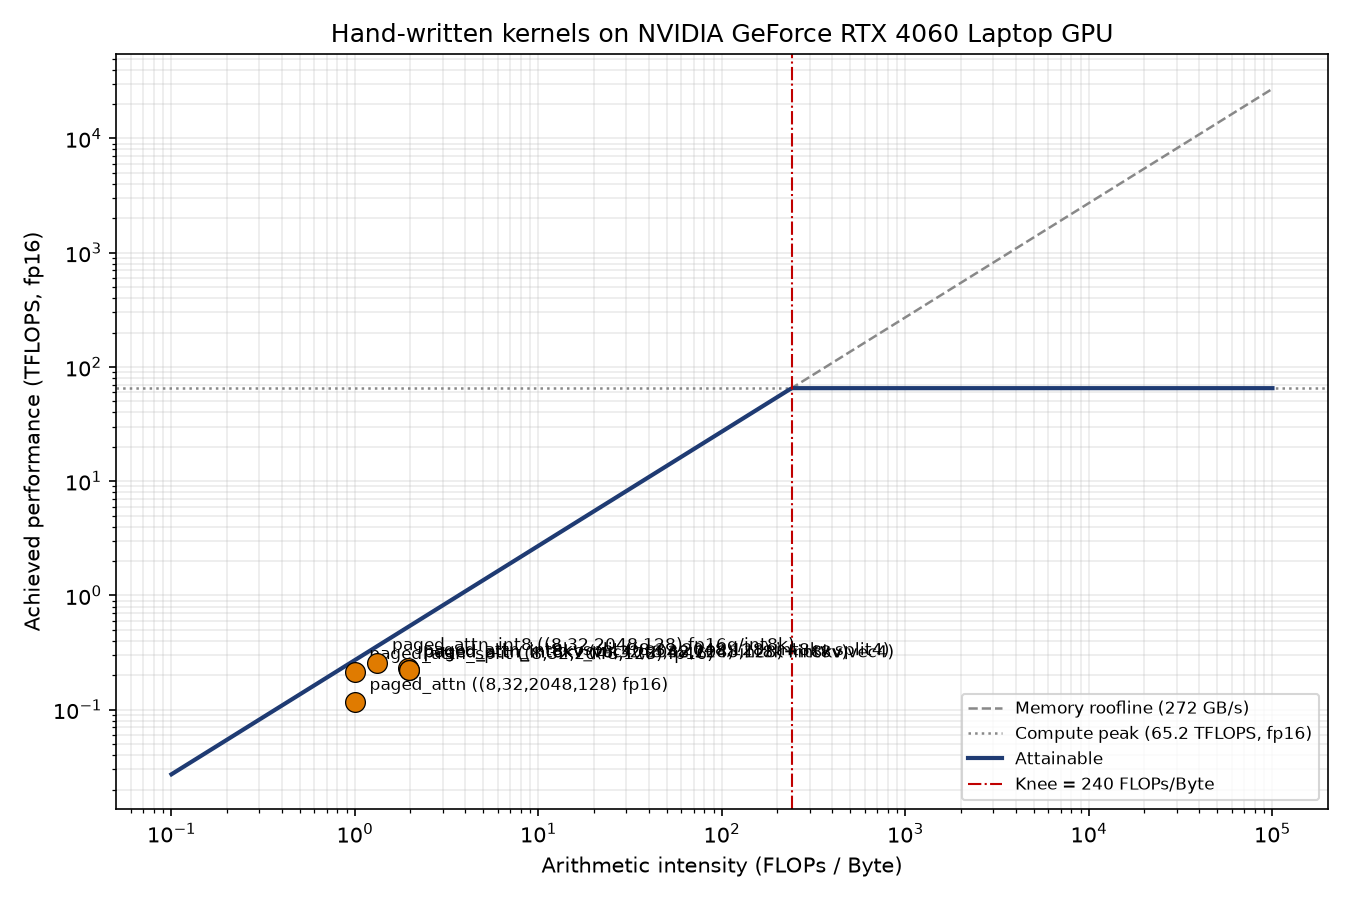
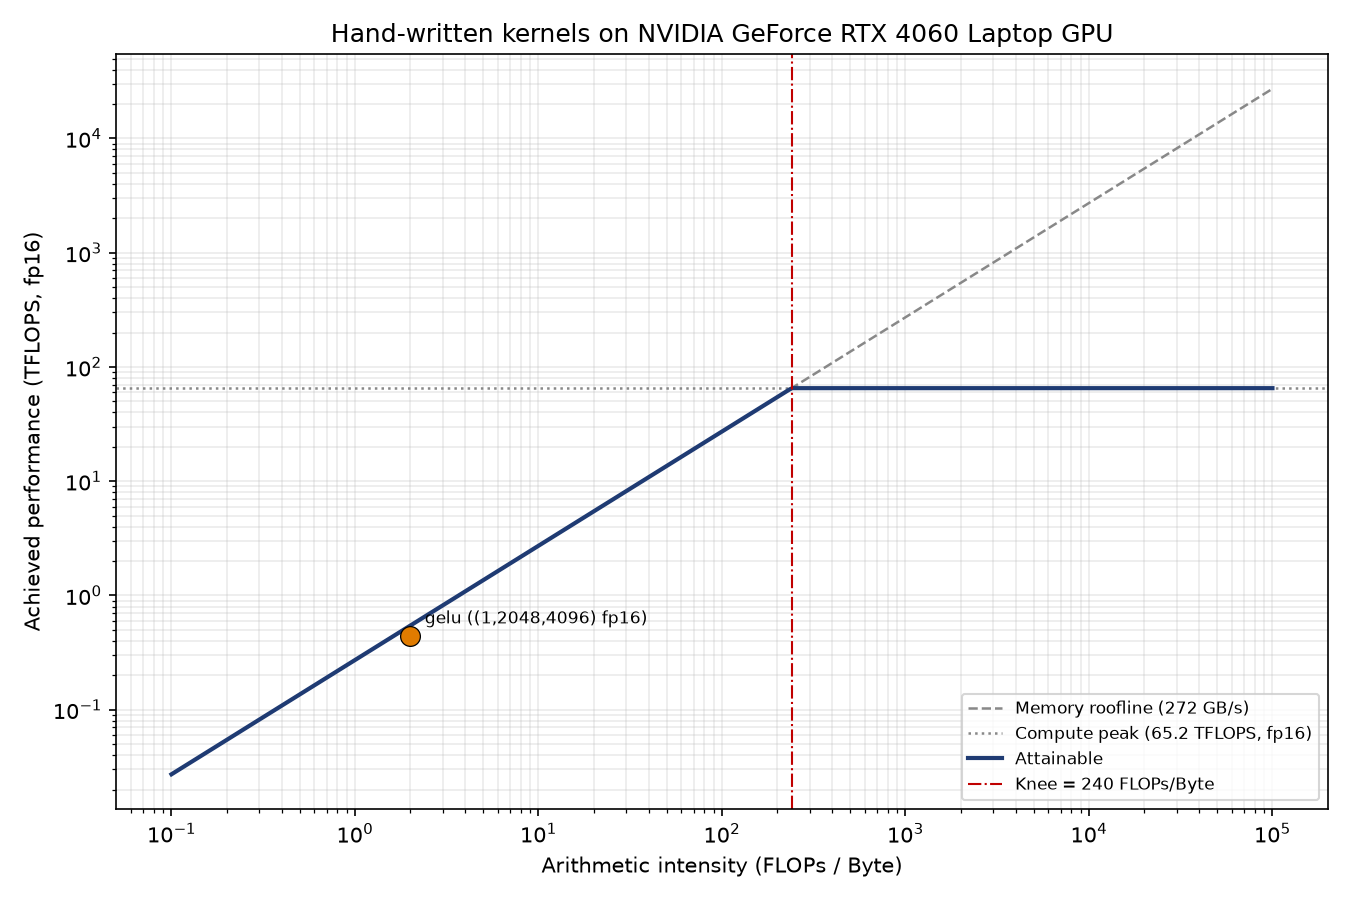
docs(gelu): block size sweep 结论（256/512 等价，128 掉 15%）

Changed region(s): [[0.2489, 0.6844, 0.6533, 0.8089]]

diff --git a/results/kernels.md b/results/kernels.md
@@ -1,6 +1,6 @@
 # 自写 CUDA Kernel 性能报告
 
-> 生成时间：2026-10-29 08:35:53
+> 生成时间：2026-10-29 08:43:48
 
 ## 环境
 
@@ -17,12 +17,7 @@
 
 | kernel | case | 状态 | 我的(ms) | PyTorch(ms) | 加速比 | 峰值显存(MB) | 带宽利用率(%) | Roofline | 备注 |
 |---|---|---|---|---|---|---|---|---|---|
-| paged_attn_int8kvsplit | (8,32,2048,128) int8kv split4 | PASS | 1.15 | 16.46 | 14.31 | 138.9 | 43.96 | memory-bound |  |
-| paged_attn | (8,32,2048,128) fp16 | PASS | 2.318 | 9.333 | 4.026 | 264.4 | 42.59 | memory-bound |  |
-| paged_attn_split | (8,32,2048,128) fp16 | PASS | 1.244 | 8.931 | 7.179 | 264.9 | 79.67 | memory-bound |  |
-| paged_attn_int8 | (8,32,2048,128) fp16q/int8k | PASS | 1.039 | 12.59 | 12.12 | 201.4 | 71.64 | memory-bound |  |
-| paged_attn_int8kv | (8,32,2048,128) int8k+int8v | PASS | 1.202 | 16.25 | 13.51 | 138.4 | 41.73 | memory-bound |  |
-| paged_attn_int8kv_vec4 | (8,32,2048,128) int8kv vec4 | PASS | 1.202 | 16.24 | 13.51 | 138.4 | 41.73 | memory-bound |  |
+| gelu | (1,2048,4096) fp16 | PASS | 0.1516 | 0.1495 | 0.9865 | 64 | 81.4 | memory-bound |  |
 
 > 状态含义：`PASS` 正确且已测；`WRONG` 结果不对（先修正确性再谈性能）；
 > `SKIP` 文件还没写；`FAIL` 调用/编译出错。

diff --git a/kernels/README.md b/kernels/README.md
@@ -51,7 +51,7 @@ kernels/
 |---|---|---|
 | `w2_reduce.cu` | 完成 | 0.1137 ms / 54.3% 带宽，ncu DRAM 87.3%（已贴墙） |
 | `w2_softmax.cu` | 完成 | 0.2160 ms / 57.1%，屏障 20 → 4 |
-| `w2_gelu.cu` | 完成 | 0.1516 ms / **81.4%**，`__half2` 向量化，追平 PyTorch |
+| `w2_gelu.cu` | 完成 | 0.1516 ms / **81.4%**，`__half2` 向量化，追平 PyTorch；block 256 与 512 等价（0.1505 / 0.1516 ms，±1%），降到 128 掉 15%（189.4 GB/s / 69.6%） |
 | `w2_rmsnorm.cu` | **跳过** | 知识点已被 w3 融合版覆盖 |
 | `w3_fused_rmsnorm_residual.cu` | 完成 | 融合版 199.9 µs / ncu DRAM 92.8%，比两 kernel 版快 1.95× |
 | `w4_attn_naive.cu` | 完成 | 46.87 → **15.53 ms**（warp-per-j + PV 四路切分 + QK ILP-4） |
